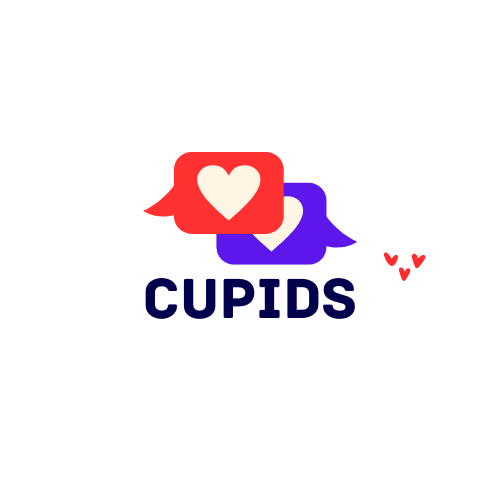
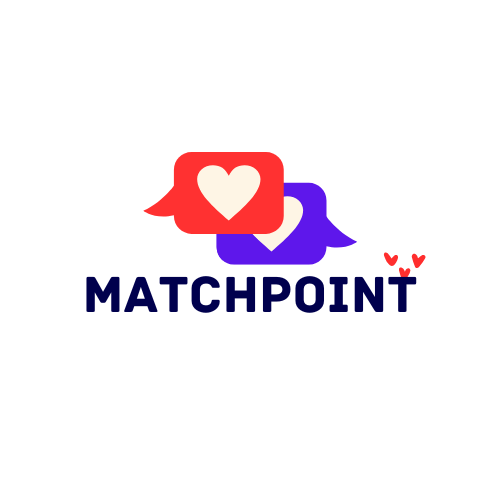
login page redesign

Changed region(s): [[0.15, 0.54, 0.84, 0.66]]

diff --git a/src/views/UploadPhotosView.vue b/src/views/UploadPhotosView.vue
@@ -1,7 +1,6 @@
 <template>
   <div class="upload-photos">
     <img src="/icon.png" alt="MatchPoint Logo" class="logo" />
-    <div class="app-name">MatchPoint</div>
 
     <h1>Upload Your Photos</h1>
     <p>Upload at least 1 photo to continue (max 5)</p>
@@ -148,13 +147,7 @@ const goToDeck = () => {
     object-fit: contain;
   }
   
-  .app-name {
-    font-size: 36px;
-    font-weight: 800;
-    margin-bottom: 8px;
-    color: #3B82F6;
-    letter-spacing: -1px;
-  }
+
   
   h1 {
     margin: 0 0 24px 0;

diff --git a/src/views/SwipeDeck.vue b/src/views/SwipeDeck.vue
@@ -3,7 +3,6 @@
     <div class="header">
       <div class="logo-wrapper">
         <img src="/icon.png" alt="MatchPoint Logo" class="logo" />
-        <h1 class="app-name">MatchPoint</h1>
       </div>
       <div class="nav">
         <router-link to="/matches">Messages</router-link>
@@ -282,12 +281,7 @@ const logout = () => {
   margin-bottom: 20px;
 }
 
-.header h1 {
-  font-size: 32px;
-  font-weight: 700;
-  color: #3B82F6;
-  letter-spacing: -0.5px;
-}
+
 
 .nav {
   display: flex;

diff --git a/src/views/LoginView.vue b/src/views/LoginView.vue
@@ -2,7 +2,6 @@
   <div class="login">
     <!-- Logo -->
     <img src="/icon.png" alt="MatchPoint Logo" class="logo" />
-    <div class="app-name">MatchPoint</div>
     <h1>Login</h1>
 
     <!-- Form -->
@@ -113,12 +112,7 @@ const handleLogin = async () => {
   object-fit: contain;
 }
 
-.app-name {
-  font-size: 36px;
-  font-weight: 800;
-  margin-bottom: 8px;
-  color: #3B82F6;
-}
+
 
 h1 {
   margin: 0 0 32px 0;
